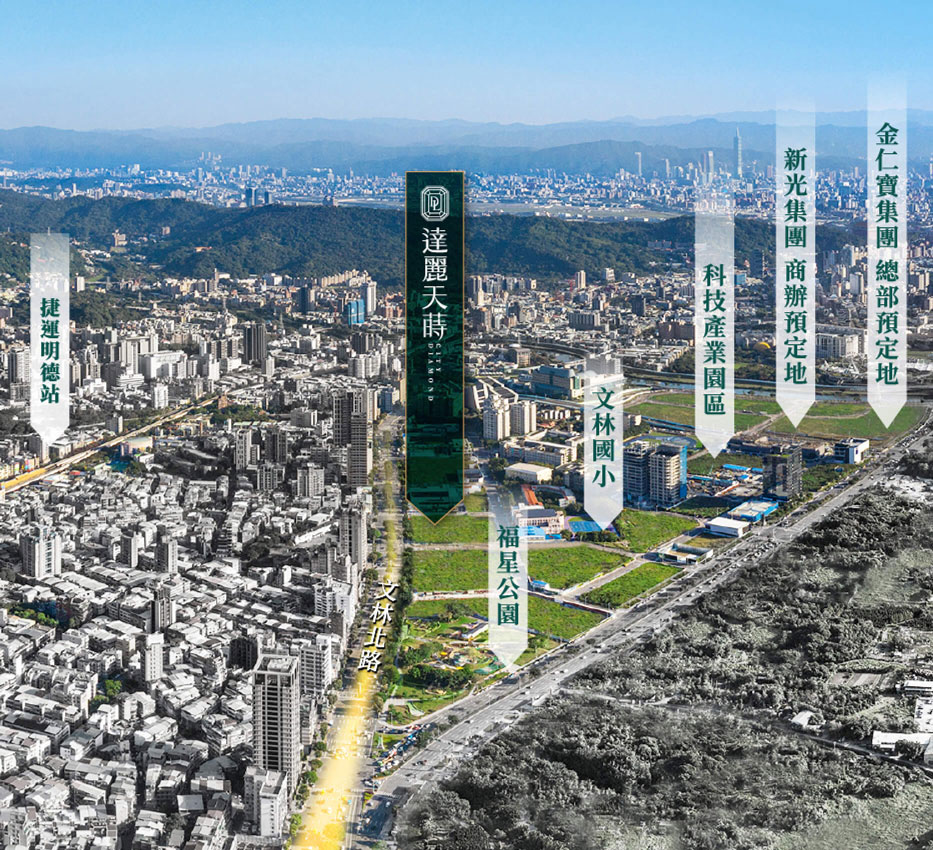
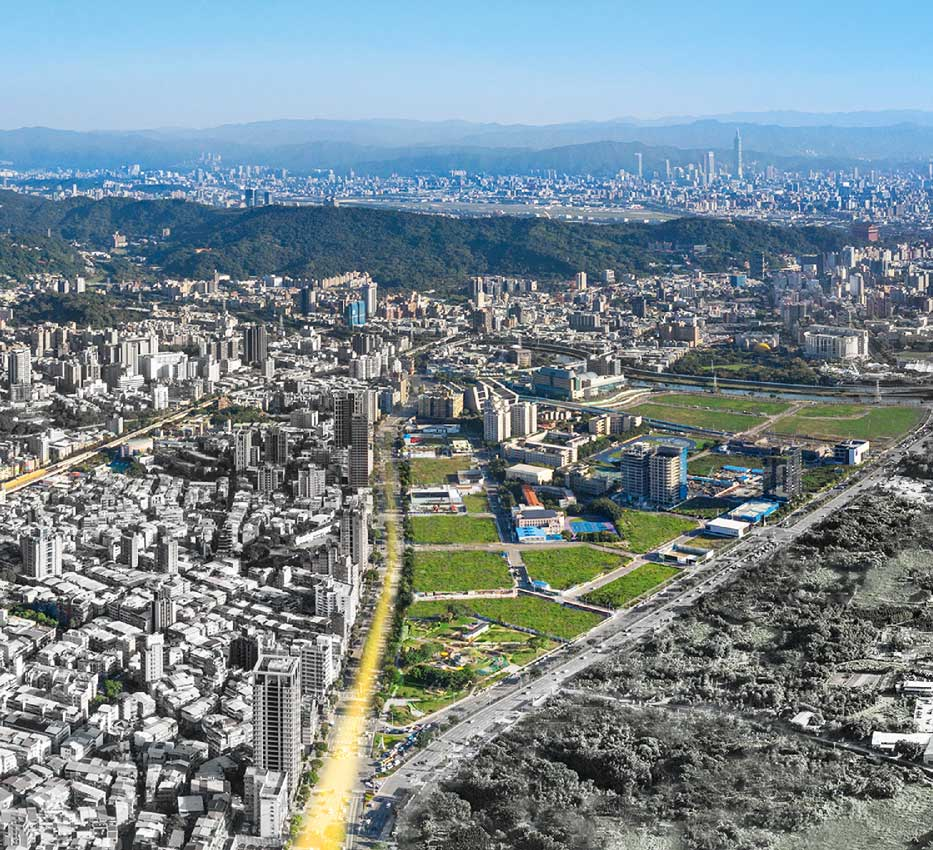
dlts

diff --git a/src/section/s4.vue b/src/section/s4.vue
@@ -1,6 +1,8 @@
 <template>
   <section class="s4 relative bg-[#EEEEEE]">
-    <img class="img1 absolute" src="@/section/s4/img1.jpg" data-aos="fade-up" data-aos-delay="0" />
+    <div class="img1 absolute" data-aos="fade-up" data-aos-delay="0">
+      <img src="@/section/s4/img1.jpg" /><img class="absolute" src="@/section/s4/img1.png" />
+    </div>    
     <img class="img2 absolute" src="@/section/s4/img2.jpg" data-aos="fade-up" data-aos-delay="0" />
     <div class="text absolute" data-aos="fade-up" data-aos-delay="0">
       <div class="title">文林北路綠樹園道<br>國際北士科首席</div>
@@ -26,6 +28,9 @@
     width: size-m(315);
     top: size-m(162);
     left: size-m(30);
+    img{width: 100%;
+    &:last-child{top: 0;left: 0;}
+    }
     @media screen and (min-width:768px) {
       width: size(933);
       top: size(120);

diff --git a/src/info/index.js b/src/info/index.js
@@ -26,7 +26,7 @@ export default {
         ["不動產經紀人", "黃偉翔（112）南市字第00875號"],
     ],
     gtmCode: ["GTM-N64RZSS"], // 可放置多個
-    recaptcha_site_key_v2: "6LfGUjEaAAAAANYvhZQx5imGm23pRt0V-rOvkpNC",
+    recaptcha_site_key_v2: "6Lep-78UAAAAAMaZLtddpvpixEb8cqu7v7758gLz",
     // recaptcha_site_key_v2: "6LeIxAcTAAAAAJcZVRqyHh71UMIEGNQ_MXjiZKhI", //testkey
     recaptcha_site_key: "6Lck-L8UAAAAABxfvNA1NJuBrdl3iLFc3GkudC8s", // recaptcha v3
     recaptcha_user_token: "6Lck-L8UAAAAAIcvenwGDl8_Q1tKbrEYsKuriePa",

diff --git a/src/section/form/houseInfo.vue b/src/section/form/houseInfo.vue
@@ -28,7 +28,7 @@
 
     <div class="footer flex items-center justify-center w-full h-[40px] bg-[#302626]">
         <a href="https://www.lixin.com.tw/" target="_blank"><img class="hover:opacity-50"
-                src="@/section/form/footerlogo.png" alt="達麗天蒔" srcset=""></a>
+                src="@/section/form/footerlogo.gif" alt="達麗天蒔" srcset=""></a>
         <a href="https://www.h65.tw/admin/test/login" target="_blank"><p class="text-white text-xs">網頁製作</p></a>
     </div>
 </template>
